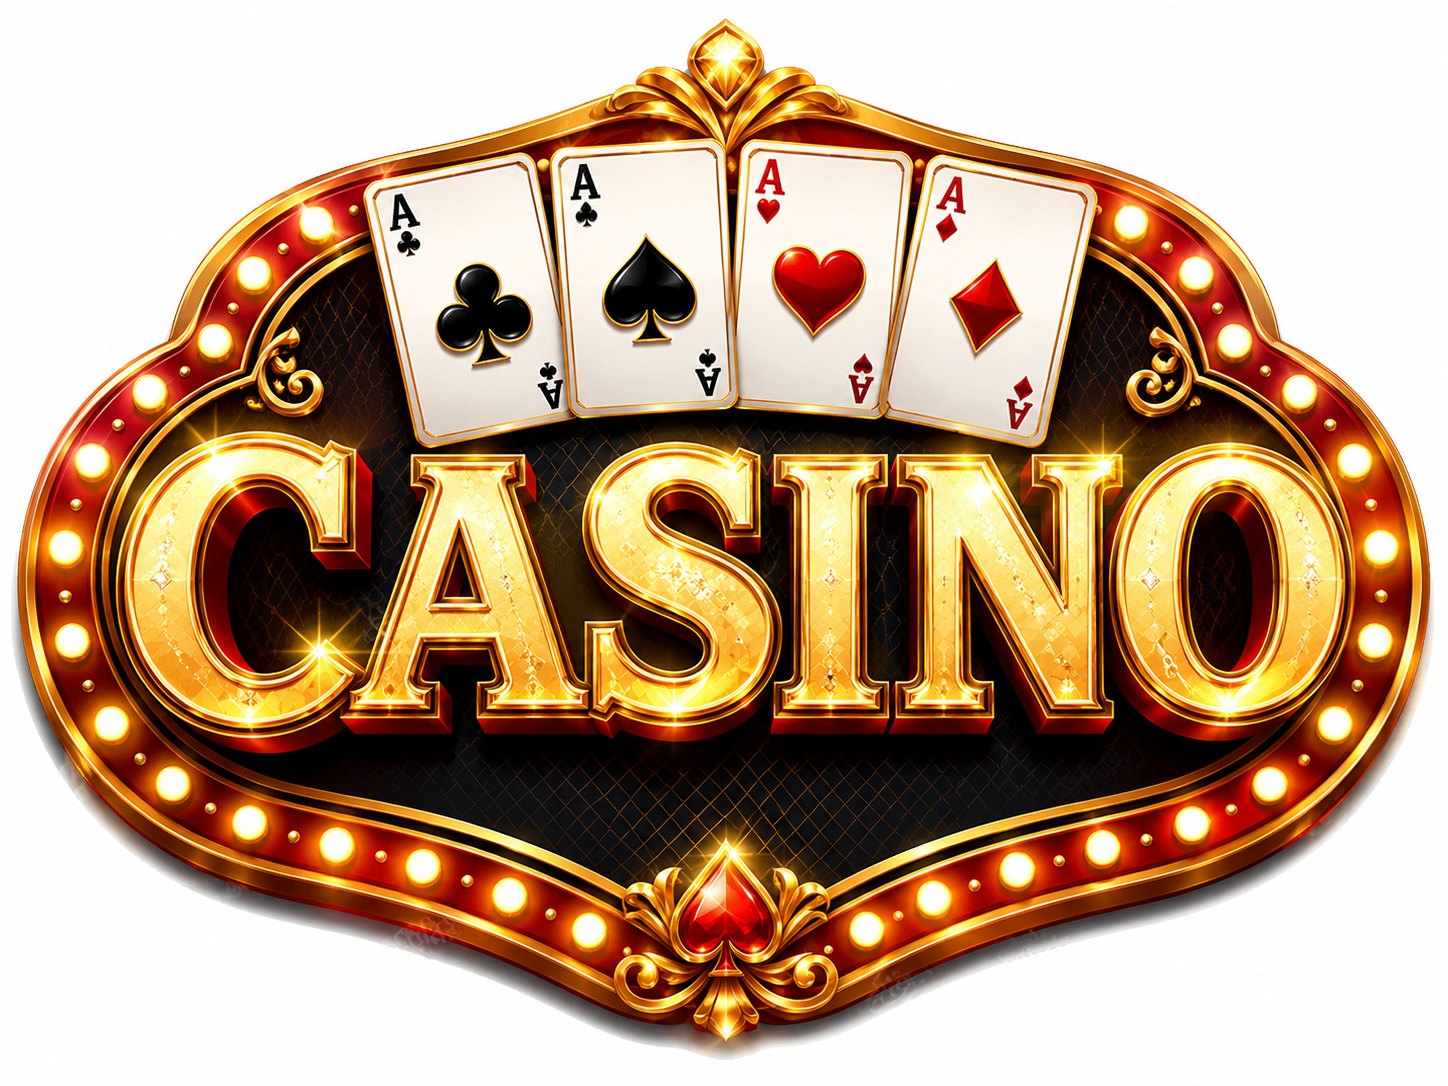
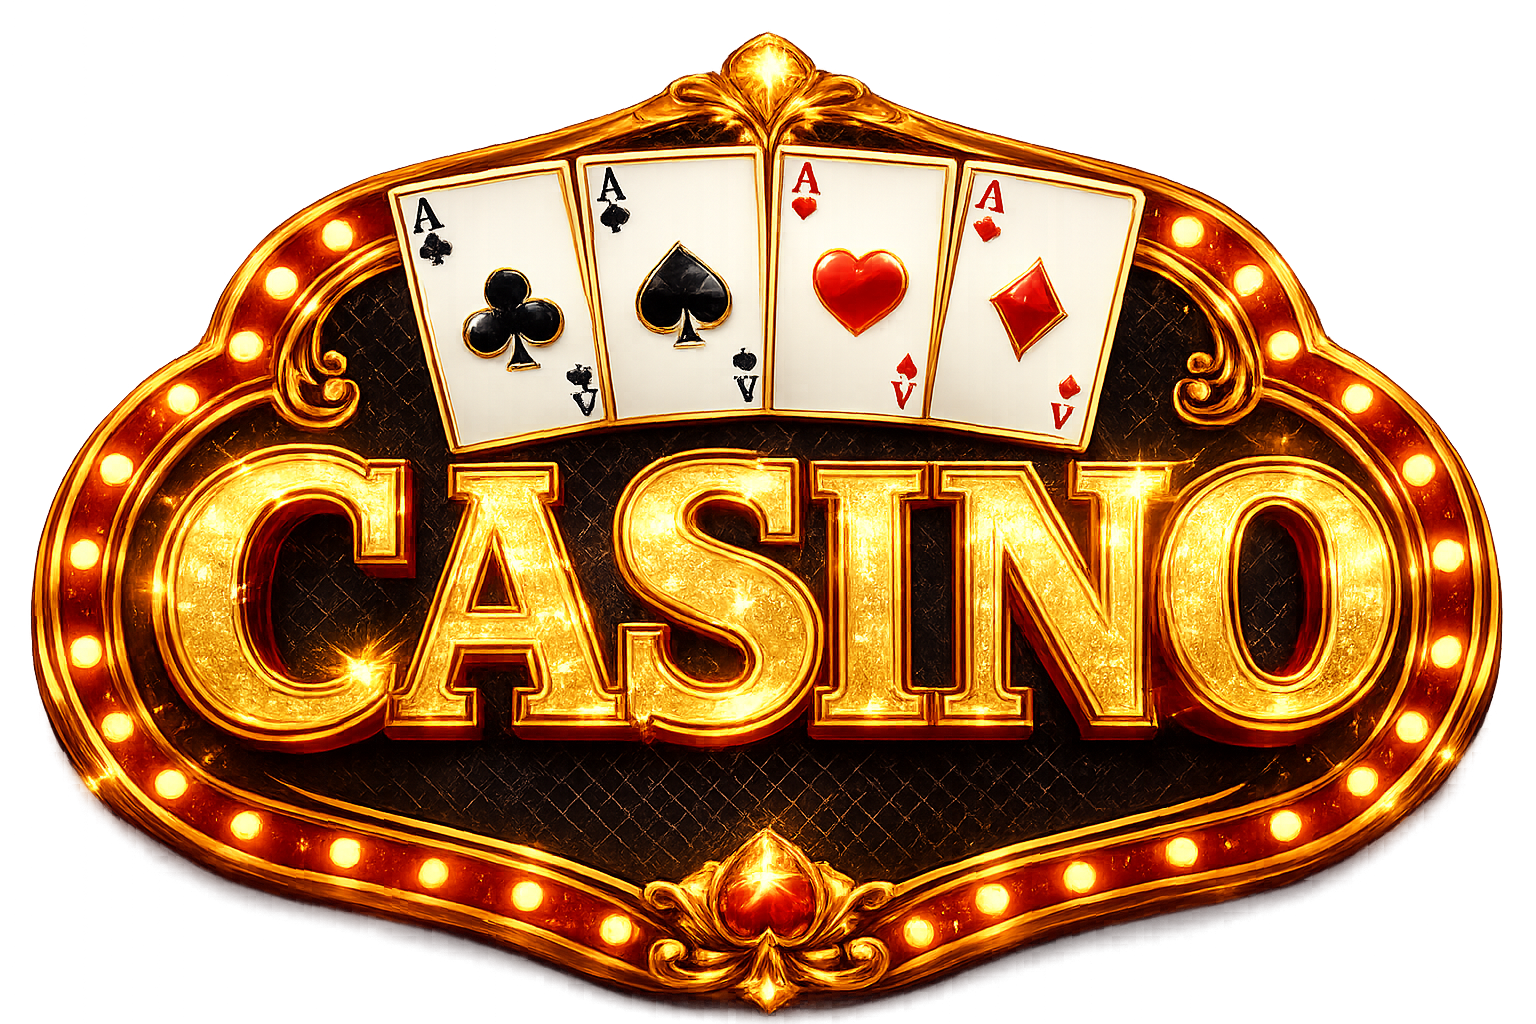
style(sidebar): add beautiful wallet card with balance and deposit button

diff --git a/platform/apps/web/src/components/layout/AppSidebar.tsx b/platform/apps/web/src/components/layout/AppSidebar.tsx
@@ -8,7 +8,7 @@ import {
   Gamepad2, Trophy, ChevronDown, Headphones,
   Ticket, Target, Monitor, Glasses, Gift, Shield,
   TrendingUp, Award, Activity, Megaphone, Share2, Gift as GiftBox,
-  Crown, Heart, Globe, MessageCircle,
+  Crown, Heart, Globe, MessageCircle, Diamond,
 } from "lucide-react";
 import { cn } from "@/lib/cn";
 
@@ -56,6 +56,7 @@ function SidebarInner() {
     (u: string) => fetch(u).then(r => r.json()),
     { refreshInterval: 300_000 },
   );
+  const { data: wallet } = useSWR("/wallet/summary");
   const siteName = settings?.siteName ?? "DiamondPlay22";
 
   return (
@@ -160,10 +161,24 @@ function SidebarInner() {
         })()}
       </nav>
 
-      {/* ── Total Bets ───────────────────────────────────────── */}
-      <div className="px-4 py-2 shrink-0" style={{ background: "rgba(139, 92, 246, 0.06)" }}>
-        <div className="text-[9px] uppercase tracking-wider text-white/30 mb-0.5">Total Bets Placed</div>
-        <div className="text-sm font-bold text-white/50 tabular-nums tracking-tight">14,012,645,500</div>
+      {/* ── Wallet Card ──────────────────────────────────────── */}
+      <div className="px-4 py-3 shrink-0">
+        <Link href="/account/deposit" className="flex items-center gap-2.5 rounded-2xl px-4 py-3 transition-all hover:scale-105 active:scale-95 border-2"
+          style={{ background: "#090c1c", borderColor: "rgba(255, 215, 0, 0.3)" }}>
+          <div className="flex items-center justify-center w-8 h-8 rounded-lg" style={{ background: "rgba(255, 215, 0, 0.15)" }}>
+            <Diamond size={18} className="text-yellow-300" fill="currentColor" />
+          </div>
+          <div className="flex-1 min-w-0">
+            <div className="text-[11px] text-white/50 uppercase tracking-wider leading-none">Balance</div>
+            <div className="text-[16px] font-black text-white tabular-nums">
+              ₹{wallet?.available ? Number(wallet.available).toLocaleString("en-IN", { minimumFractionDigits: 2, maximumFractionDigits: 2 }) : "0.00"}
+            </div>
+          </div>
+          <div className="rounded-full px-3 py-1.5 font-bold text-[13px] shrink-0 transition-all hover:brightness-110"
+            style={{ background: "linear-gradient(135deg, #ffd700, #ffed4e)", color: "#1a0a00" }}>
+            Deposit
+          </div>
+        </Link>
       </div>
     </div>
   );